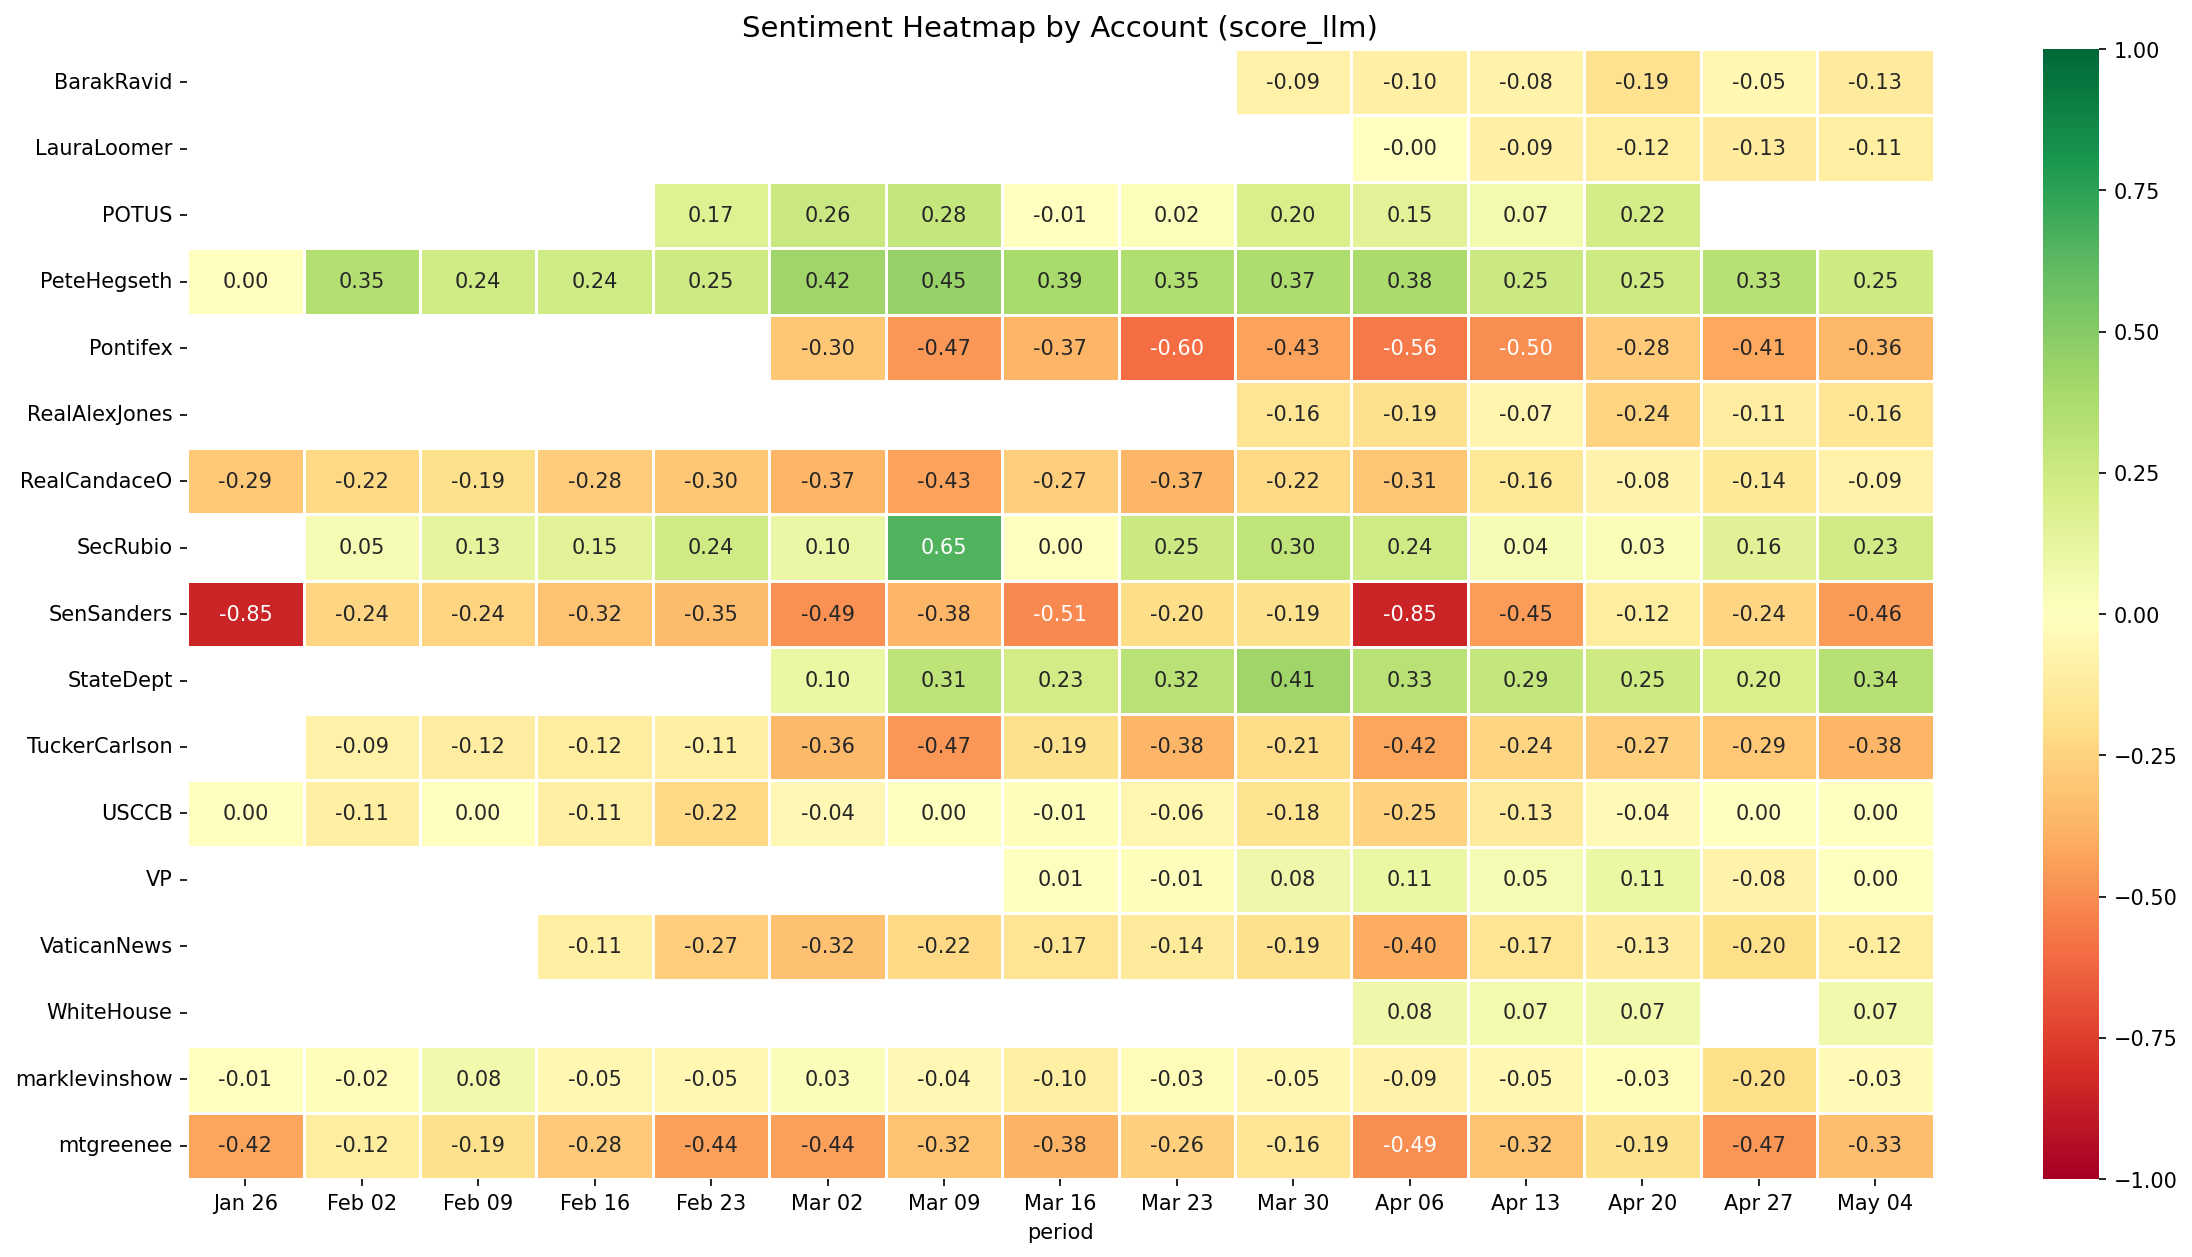
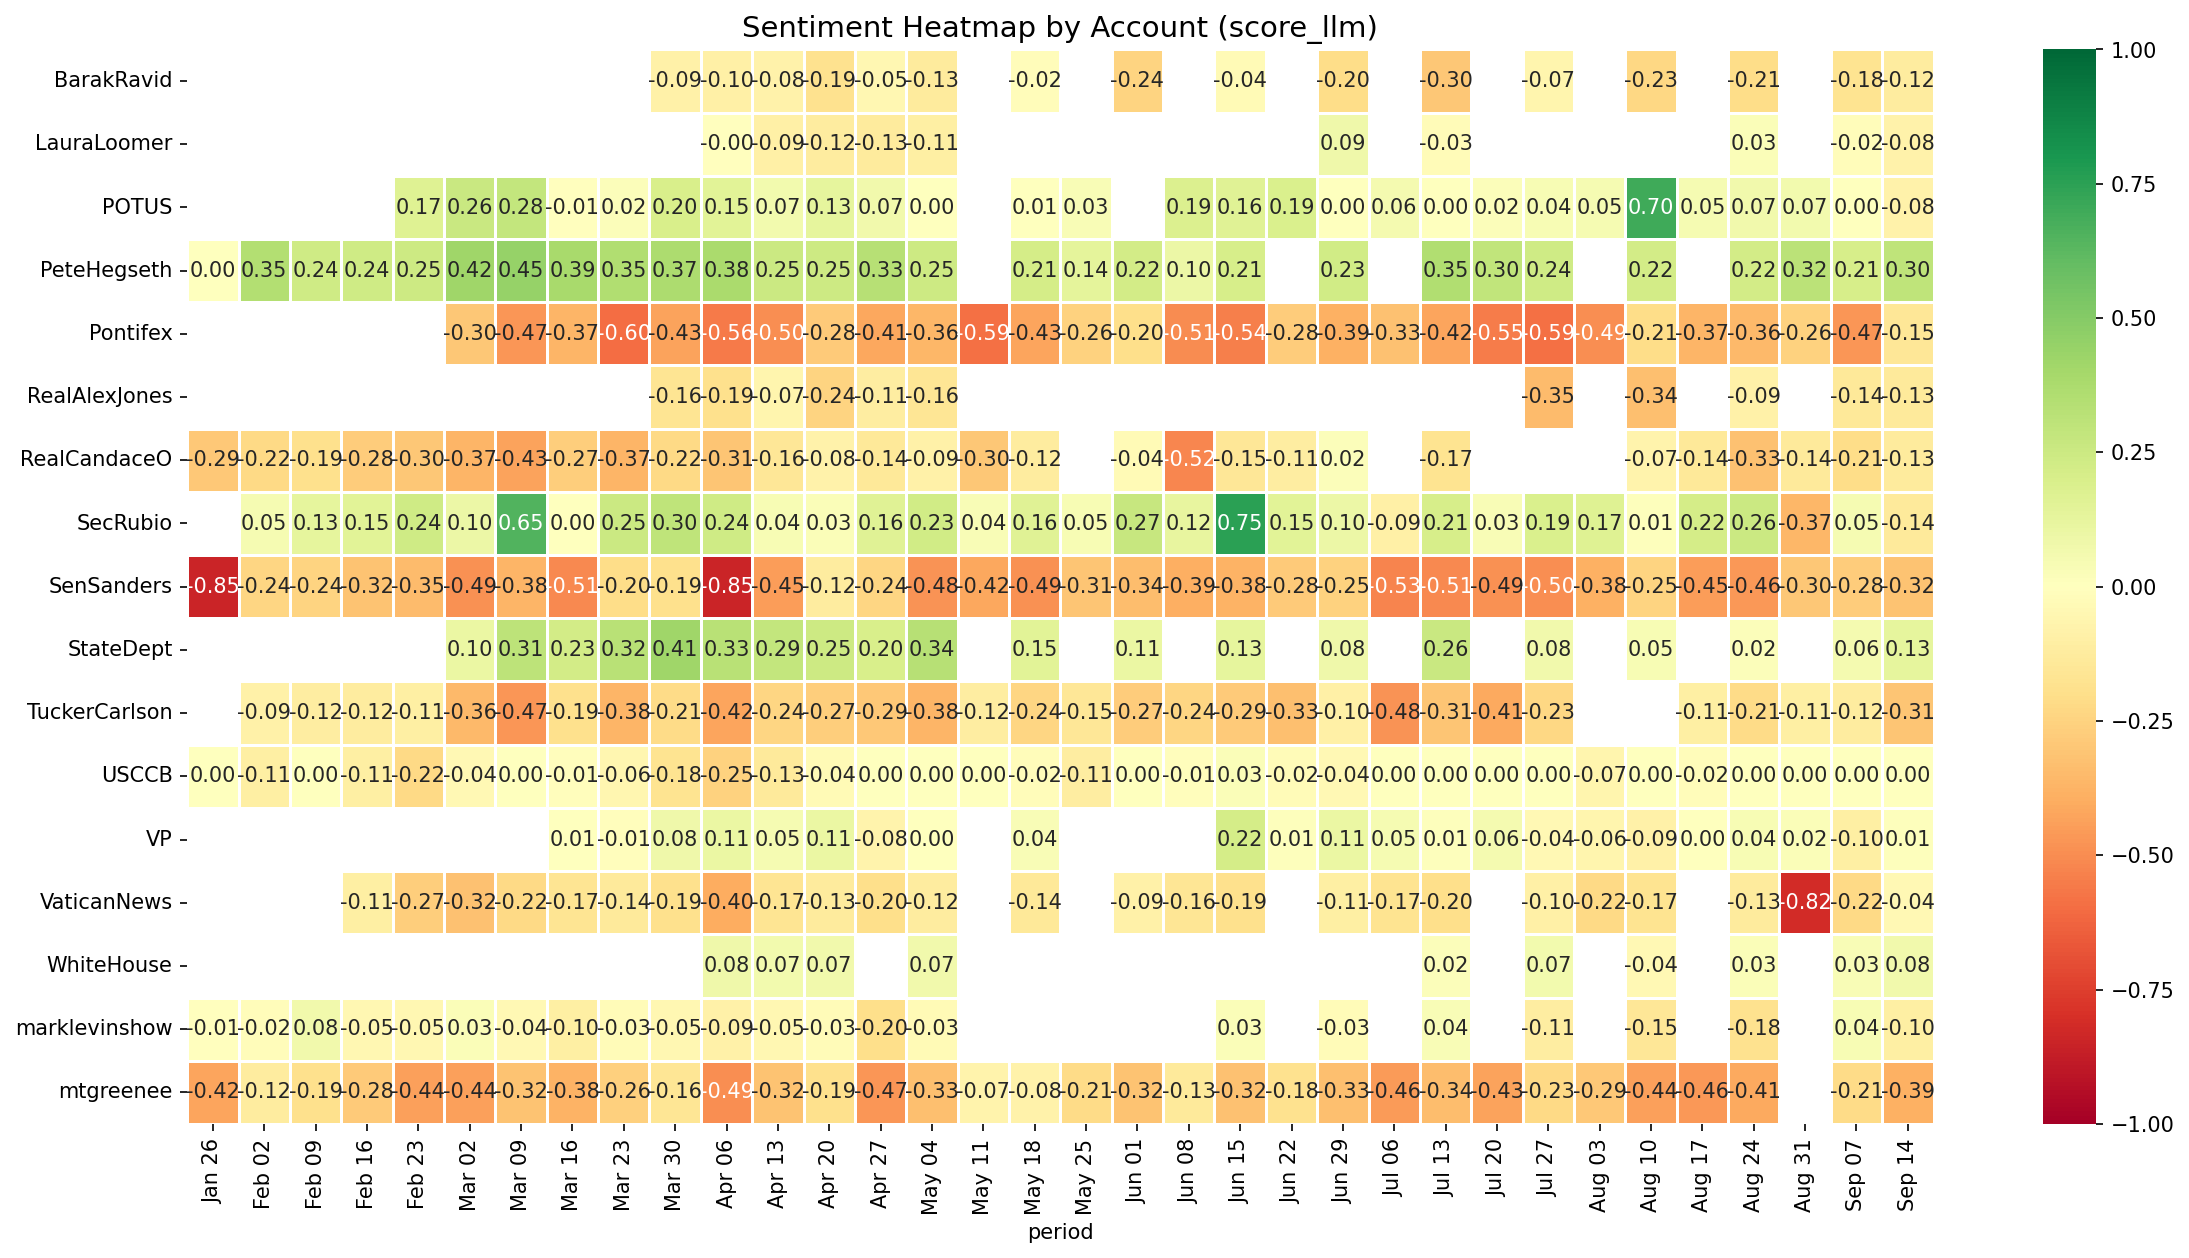
docs: extended broadcaster series to Sep 18 (19,605 posts)
Four-phase tier table replaces the Apr 22 - May 12 split. Headline: the
administration's own messaging got steadily less hawkish across the war
(+0.235 -> +0.073), driven by State, Rubio and POTUS while Hegseth held;
opposition flat; MTG hardened, Owens softened; the Vatican softened
after the ceasefire and did not re-harden. Figures regenerated over the
Feb-Sep window with importance>=4 labels.

Limitations record the X timeline horizon: only the most recent ~3,200
tweets are retrievable, so the four heaviest accounts have unrecoverable
holes between May 10 and Jun 20 / Jul 4 / Jul 17 / Jul 31.

diff --git a/README.md b/README.md
@@ -1,21 +1,22 @@
 # iran-sentiment
 
 Sentiment analysis of US political messaging during the 2026 Iran war
-(Feb 1 -- May 12, 2026). Tracks the Trump administration, MAGA
+(Feb 1 -- Sep 18, 2026). Tracks the Trump administration, MAGA
 influencers (both pro- and anti-war), the opposition, media, and the
 Pope Leo XIV / Vatican moral axis across X and Truth Social, from a
-month before the Feb 28 strikes through the Apr 8 ceasefire and three
-weeks of the post-ceasefire negotiation period.
+month before the Feb 28 strikes through the Apr 8 ceasefire, the June
+Islamabad deal and its July collapse, and the renewed strikes of
+September.
 
-The X broadcaster data ends 2026-05-12 (accounts through May 10,
-keyword searches through May 12). The Truth Social layer -- Trump's
-feed and the reply-level audience analysis -- runs through 2026-09-16.
-Nothing runs on a schedule.
+X broadcaster data runs to 2026-09-18 (keyword searches are frozen at
+May 12); the Truth Social layer -- Trump's feed and the reply-level
+audience analysis -- runs through 2026-09-16. Nothing runs on a
+schedule.
 
 ## Findings
 
-13,974 posts from 17 X/Twitter accounts across 6 political tiers plus
-4 keyword searches (a public-sentiment proxy), plus 83,054 Truth Social
+19,605 posts from 17 X/Twitter accounts across 6 political tiers plus
+4 keyword searches (a public-sentiment proxy, Feb-May only), plus 83,054 Truth Social
 replies to 6 Trump posts (three from the April escalation, three from
 the May-September deal-and-collapse cycle) and Trump's own Truth Social
 feed from Apr 4 to Sep 16 (4,087 posts). Every post carries three scores: VADER
@@ -30,13 +31,13 @@ column is shown to make its miscalibration visible.
 
 | Tier | LLM stance | RoBERTa | n |
 |------|-----------:|--------:|--:|
-| admin | +0.236 | +0.136 | 2,604 |
-| maga_prowar | -0.058 | -0.206 | 4,676 |
-| media | -0.098 | -0.035 | 908 |
-| religious_authority | -0.207 | **+0.296** | 1,176 |
-| maga_antiwar | -0.209 | -0.189 | 2,718 |
-| search (public) | -0.326 | -0.346 | 1,768 |
-| opposition | -0.344 | -0.293 | 124 |
+| admin | +0.174 | +0.143 | 4,879 |
+| maga_prowar | -0.056 | -0.199 | 5,261 |
+| media | -0.119 | -0.032 | 1,358 |
+| religious_authority | -0.180 | **+0.302** | 2,239 |
+| maga_antiwar | -0.206 | -0.180 | 3,755 |
+| search (public, Feb-May) | -0.326 | -0.346 | 1,768 |
+| opposition | -0.376 | -0.303 | 345 |
 
 The administration is the only net-pro-war tier. Everyone else is
 net-negative, including the "pro-war" MAGA influencers: Levin and
@@ -47,53 +48,72 @@ pro-war and anti-war influencer tiers.
 ### The religious sign flip
 
 RoBERTa reads the Vatican tier as the *most positive* tier in the
-dataset (+0.296) because faith-based anti-war language ("peace",
+dataset (+0.302) because faith-based anti-war language ("peace",
 "mercy", "dialogue") is lexically positive. The LLM stance score puts
-the same posts at -0.207, and @Pontifex at **-0.443 -- the single most
-anti-war account in the dataset** (RoBERTa: +0.374). Of 1,176
-religious-tier posts, zero were labelled pro-war. This tier is the
+the same posts at -0.180, and @Pontifex at **-0.407 -- the most
+anti-war account in the dataset** (RoBERTa: +0.330). Of 2,239
+religious-tier posts, none were labelled pro-war. This tier is the
 reason the project moved to LLM stance scoring; see the *Sentiment
 scoring* section.
 
 ### Who the hawks actually are
 
-The operational arms out-hawk the PR shop. @PeteHegseth (+0.327) and
-@StateDept (+0.293) are the two most pro-war accounts; @POTUS is
-+0.143 and @WhiteHouse only +0.071, even though RoBERTa had the White
-House as the most positive account in the dataset (+0.380). @VP, the
-lead negotiator from the Apr 11 Islamabad talks, sits at +0.044.
+The operational arms out-hawk the PR shop. @PeteHegseth (+0.295) and
+@StateDept (+0.228) are the two most pro-war accounts; @POTUS is
++0.104 and @WhiteHouse only +0.051, even though RoBERTa had the White
+House among the most positive accounts in the dataset (+0.331). @VP,
+the lead negotiator from the Apr 11 Islamabad talks, sits at +0.034.
 
-### After the ceasefire (Apr 22 -- May 12)
+### Seven months: the administration talked itself down
 
-| Tier | Feb 1 -- Apr 21 | Apr 22 -- May 12 |
-|------|---------------:|----------------:|
-| admin | +0.235 | +0.239 |
-| maga_prowar | -0.044 | -0.107 |
-| maga_antiwar | -0.231 | -0.150 |
-| religious_authority | -0.227 | -0.136 |
-| opposition | -0.352 | -0.310 |
-| search (public) | -0.307 | -0.364 |
+LLM stance by tier across the four phases of the war (keyword searches
+excluded; they end May 12):
 
-Administration messaging did not move. The anti-war influencers and
-the Vatican softened once the shooting stopped, the pro-war
-influencers hardened (blockade and negotiation criticism), and the
-keyword searches got more negative. The weekly series shows its most
-negative week at May 11 (-0.37), but that bucket is search-only (the
-accounts were last refreshed May 10) and should not be read as a
-cross-tier shift.
+| Tier | Feb 1 -- Apr 21<br>strikes, ceasefire | Apr 22 -- Jun 17<br>talks, MOU | Jun 18 -- Aug 17<br>collapse, blockade | Aug 18 -- Sep 18<br>expiry, strikes |
+|---|--:|--:|--:|--:|
+| admin | +0.235 | +0.181 | +0.108 | +0.073 |
+| maga_prowar | -0.044 | -0.107 | -0.024 | -0.053 |
+| media | -0.092 | -0.116 | -0.169 | -0.170 |
+| religious_authority | -0.227 | -0.158 | -0.141 | -0.133 |
+| maga_antiwar | -0.231 | -0.153 | -0.248 | -0.169 |
+| opposition | -0.352 | -0.380 | -0.397 | -0.374 |
+| posts | 9,419 | 4,088 | 2,614 | 1,716 |
+
+- **The administration's own messaging got steadily less hawkish**, from
+  +0.235 in the strike phase to +0.073 in the September strikes phase.
+  The decline is in the diplomatic and presidential accounts, not the
+  Pentagon: @StateDept +0.30 to +0.06, @SecRubio +0.16 to +0.04,
+  @POTUS +0.14 to +0.04, while @PeteHegseth held between +0.24 and
+  +0.34 throughout. By September the only consistently hawkish voice
+  in the administration was the Secretary of War.
+- **The opposition never moved.** @SenSanders sits between -0.35 and
+  -0.40 in every phase.
+- **The anti-war MAGA tier split internally.** @mtgreenee hardened
+  (-0.32 to -0.37) and @RealAlexJones was most anti-war during the
+  July collapse (-0.34), while @RealCandaceO softened from -0.29 to
+  -0.16 after April.
+- **The Vatican softened once the shooting paused and did not
+  re-harden when it resumed**: @Pontifex -0.48 in the strike phase,
+  -0.35 to -0.39 thereafter. Media (@BarakRavid) went the other way,
+  -0.09 to -0.17.
+
+![Tier comparison](docs/figures/tier_comparison_score_llm.png)
 
 ### Per-account detail
 
 ![Account heatmap](docs/figures/account_heatmap_score_llm.png)
 
-- @SenSanders is the most anti-war non-Vatican voice (-0.344). VADER
+- @SenSanders is the most anti-war non-Vatican voice (-0.376). VADER
   scores him positive because anti-war vocabulary is lexically
   positive.
-- @LauraLoomer moves from RoBERTa -0.290 to LLM -0.080: her angry
+- @LauraLoomer moves from RoBERTa -0.276 to LLM -0.067: her angry
   pro-war posts read as negative valence but near-neutral stance.
-- @TuckerCarlson posts rarely (104 tweets) but is consistently
-  anti-war from the strikes onward (-0.264).
-- @mtgreenee is the most anti-war MAGA voice (-0.317).
+- @TuckerCarlson posts rarely (221 tweets in seven months) but is
+  consistently anti-war from the strikes onward (-0.251).
+- @mtgreenee is the most anti-war MAGA voice (-0.302).
+- Blank weeks in the heatmap for Levin, Loomer, Alex Jones and the
+  White House between May and July are a collection limit, not
+  silence: see *Limitations*.
 
 ### Audience replies: six Trump posts, April to September
 
@@ -145,17 +165,20 @@ negative (-0.55) and `pro_trump_antiwar` replies read as positive
 - X/Twitter: v2 API, per-account JSONL caching, incremental refresh
   (each run appends only tweets newer than the latest cached one),
   capped at 500 tweets per account per run to control cost
-  ($0.005/read).
+  ($0.005/read). Long gaps are walked in two-week slices with the cap
+  shared across slices, so a cap hit thins a fortnight rather than
+  dropping months; the five most prolific accounts were sampled at 450
+  for the May-September refresh.
 - Keyword searches use `/search/recent`, which only reaches back 7
-  days. Searches were refreshed on Apr 16 and May 12, so search
-  coverage has a gap from roughly Apr 20 to May 5; the collector logs
-  the unfetched gap rather than silently skipping it.
+  days. Searches were refreshed on Apr 16 and May 12 and not since, so
+  the search tier covers Feb 1 to May 12 with a gap from roughly Apr 20
+  to May 5, and is excluded from the phase comparisons above.
 - Truth Social: `curl_cffi` (Cloudflare bypass). Account feeds via the
   public API with an incremental, resume-safe refresh; replies via the
   authenticated v2 descendants endpoint after a one-time `ts-login`
   (Truth Social's new-device security-code check).
-- Window: Feb 1 -- May 12, 2026, with pre-war context events back to
-  Jun 2025.
+- Window: Feb 1 -- Sep 18, 2026 for accounts, with pre-war context
+  events back to Jun 2025.
 
 ### Sentiment scoring
 
@@ -275,11 +298,17 @@ docs/figures/             # the LLM-stance figures referenced above
 - VADER and RoBERTa are valence proxies. Any stance comparison across
   tiers must use `score_llm`; the RoBERTa number for the religious
   tier is actively misleading.
-- The 500-tweet-per-run cap was hit by @marklevinshow, @RealAlexJones
-  and @LauraLoomer in the May 10 refresh, so those accounts are
-  truncated within Apr 22 -- May 10.
-- Search coverage has a gap in late April (see *Data collection*), and
-  the final week of the series is search-only.
+- X's user-timeline endpoint only returns an account's most recent
+  ~3,200 tweets. The September refresh came four months after the
+  last one, so for the most prolific accounts the early part of that
+  gap is unrecoverable: no posts before Jun 20 for @marklevinshow,
+  Jul 4 for @LauraLoomer, Jul 17 for @WhiteHouse and Jul 31 for
+  @RealAlexJones. Their phase-two numbers rest on April and early May
+  only. The remaining 13 accounts are continuous.
+- The five most prolific accounts are sampled (450 per refresh spread
+  across two-week slices), not exhaustive, from May 10 on.
+- Search coverage stops at May 12 and has a gap in late April (see
+  *Data collection*).
 - Truth Social's API may truncate large reply trees. Coverage is
   validated per-post during collection.
 - This is observational sentiment tracking, not causal inference. Event
@@ -289,7 +318,7 @@ docs/figures/             # the LLM-stance figures referenced above
 
 X API reads cost $0.005/tweet. Collection through Apr 20 (9,477
 tweets) cost about $47; the May 10/12 refresh added roughly 4,500
-tweets, about $22 more. LLM stance scoring of the full dataset ran
+tweets, about $22; the Sep 18 refresh read 5,631 tweets, about $28. LLM stance scoring of the full dataset ran
 about $15 on Claude Haiku through April; the May 12 pass over the
 ~4,500 new posts was about $2 (672k input + 267k output tokens on
 Haiku 4.5, from the console usage page). Truth Social API access is

diff --git a/CLAUDE.md b/CLAUDE.md
@@ -9,14 +9,18 @@ between pro- and anti-war factions, and how Trump's Truth Social
 audience reacts post by post.
 
 Status (2026-09-18): two data layers at different depths.
-- X broadcaster data ends 2026-05-12 (13,974 scored posts, 100% LLM
-  stance). Extending it to September needs ~$42 of X credit (balance
-  was $4.40); the plan is in *Budget discipline* below.
+- X broadcaster data runs to 2026-09-18 (19,605 scored posts, 100% LLM
+  stance; the May 10 -> Sep 18 refresh read 5,631 tweets for ~$28 with
+  the five heaviest accounts sampled at 450). Keyword searches are
+  frozen at May 12 (7-day recent search only). X's user timeline only
+  returns an account's most recent ~3,200 tweets, so prolific accounts
+  have holes: Levin before Jun 20, Loomer before Jul 4, WhiteHouse
+  before Jul 17, Alex Jones before Jul 31. Refresh heavy accounts at
+  least every ~2 months or that data is gone for good.
 - Truth Social is current through 2026-09-16: Trump's feed (4,087
   posts) and 83,054 replies to 6 tracked posts, RoBERTa-scored with a
   992-row Haiku stance sample.
-- Timeline runs to 2026-09-15. `ANALYSIS_END` tracks the X data, not
-  the catalogue.
+- Timeline runs to 2026-09-15 (84 events); `ANALYSIS_END` = 2026-09-18.
 Nothing runs on a schedule. The only cluster use is the one-shot GPU
 experiment Jobs in `k8s/` -- see *Cluster use* below.
 
@@ -160,10 +164,11 @@ inference. Guardrails in `src/analysis/sentiment.py` + `config/settings.py`:
 7. **Explicit model cleanup** — `del pipe; gc.collect()` in a
    `try/finally` so aborts still release memory.
 
-Baseline on this hardware: RoBERTa peaks at ~1.36 GB RSS on 9,477
-posts, runtime ~10 min (measured 2026-04; the dataset is 13,974 posts
-as of 2026-05-12, so expect ~15 min). If these numbers drift
-substantially, something is leaking or the thread cap got removed.
+Baseline on this hardware: RoBERTa peaks at ~1.3 GB RSS and runs ~1-1.7 s
+per 16-post batch (5,631 posts in ~9 min on 2026-09-18; 26k replies in
+33 min on 2026-09-16). The resume path means a refresh only scores new
+posts. If these numbers drift substantially, something is leaking or the
+thread cap got removed.
 
 ## Cluster use: GPU experiment Jobs only
 
